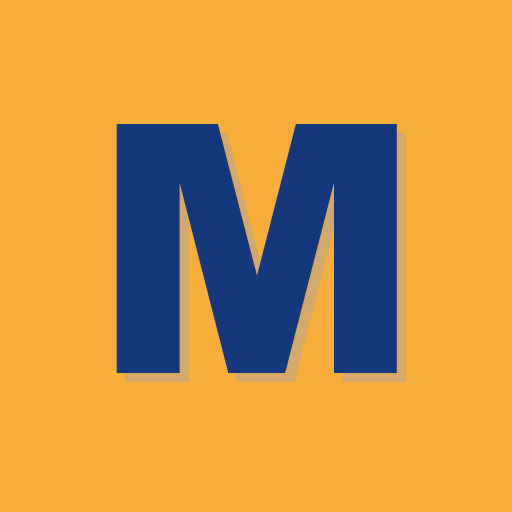
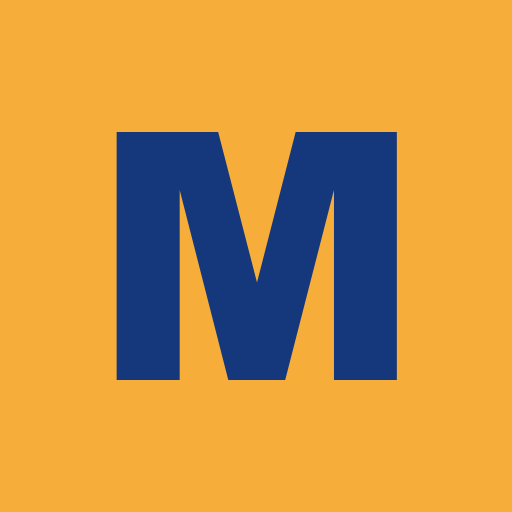
style: remove drop shadow, render flat blue M on yellow, smaller M on admin, and ADMIN text in circle

diff --git a/generate_icons.py b/generate_icons.py
@@ -1,9 +1,5 @@
 """
-Mabrix Enterprises - Favicon & App Icons Generator
-Generates high-res icons for Customer Store and Admin Portal
-- Yellow background (#F6AD3A)
-- Brand Navy Blue "M" (#15387C) using ultra-solid Arial Black
-- Admin badge with "ADMIN" text for Admin app icon
+Mabrix Enterprises - Favicon & App Icons Generator (V3: Perfect Balance, Flat, No Shadow, Smaller M, Admin in Circle)
 """
 
 import os
@@ -12,7 +8,7 @@ from PIL import Image, ImageDraw, ImageFont
 BASE_DIR = os.path.dirname(os.path.abspath(__file__))
 
 def create_customer_icon(size=512):
-    # Base image with brand yellow background
+    # Pure flat brand yellow background (#F6AD3A)
     img = Image.new("RGBA", (size, size), (246, 173, 58, 255))
     draw = ImageDraw.Draw(img)
 
@@ -28,21 +24,17 @@ def create_customer_icon(size=512):
     w = bbox[2] - bbox[0]
     h = bbox[3] - bbox[1]
 
-    # Center position
+    # Exactly centered, pure flat without shadow
     x = (size - w) / 2 - bbox[0]
-    y = (size - h) / 2 - bbox[1] - (size * 0.015)
+    y = (size - h) / 2 - bbox[1]
 
-    # Soft subtle drop shadow
-    shadow_offset = int(size * 0.018)
-    draw.text((x + shadow_offset, y + shadow_offset), "M", fill=(185, 118, 18, 160), font=font)
-
-    # Main text in brand blue (#15387C)
+    # Draw pure flat brand navy blue M (#15387C)
     draw.text((x, y), "M", fill=(21, 56, 124, 255), font=font)
 
     return img
 
 def create_admin_icon(size=512):
-    # Base image with brand yellow background
+    # Pure flat brand yellow background (#F6AD3A)
     img = Image.new("RGBA", (size, size), (246, 173, 58, 255))
     draw = ImageDraw.Draw(img)
 
@@ -50,76 +42,69 @@ def create_admin_icon(size=512):
     if not os.path.exists(font_path):
         font_path = "C:/Windows/Fonts/arialbd.ttf"
     
-    # "M" scaled and shifted up for the "ADMIN" badge
-    font_size = int(size * 0.55)
-    font_m = ImageFont.truetype(font_path, font_size)
+    # "M" is scaled to ~0.46 for balanced proportion
+    font_size_m = int(size * 0.46)
+    font_m = ImageFont.truetype(font_path, font_size_m)
 
     bbox_m = draw.textbbox((0, 0), "M", font=font_m)
     w_m = bbox_m[2] - bbox_m[0]
     h_m = bbox_m[3] - bbox_m[1]
 
     x_m = (size - w_m) / 2 - bbox_m[0]
-    y_m = (size * 0.12) - bbox_m[1]
+    y_m = int(size * 0.07) - bbox_m[1]
 
-    # Subtle soft drop shadow for M
-    shadow_offset = int(size * 0.016)
-    draw.text((x_m + shadow_offset, y_m + shadow_offset), "M", fill=(185, 118, 18, 160), font=font_m)
+    # Pure flat blue M (NO shadow)
     draw.text((x_m, y_m), "M", fill=(21, 56, 124, 255), font=font_m)
 
-    # Admin Badge Pill at the bottom
-    badge_w = int(size * 0.74)
-    badge_h = int(size * 0.19)
-    badge_x0 = (size - badge_w) // 2
-    badge_y0 = int(size * 0.70)
-    badge_x1 = badge_x0 + badge_w
-    badge_y1 = badge_y0 + badge_h
-    corner_radius = badge_h // 2
+    # Admin Badge in a CIRCLE at the bottom
+    circle_radius = int(size * 0.19) # diameter = 195px
+    circle_cx = size // 2
+    circle_cy = int(size * 0.72)
 
-    # Draw navy pill (#15387C) with subtle shadow
-    draw.rounded_rectangle([badge_x0, badge_y0 + int(size * 0.012), badge_x1, badge_y1 + int(size * 0.012)], radius=corner_radius, fill=(185, 118, 18, 160))
-    draw.rounded_rectangle([badge_x0, badge_y0, badge_x1, badge_y1], radius=corner_radius, fill=(21, 56, 124, 255))
+    c_box = [
+        circle_cx - circle_radius,
+        circle_cy - circle_radius,
+        circle_cx + circle_radius,
+        circle_cy + circle_radius
+    ]
 
-    # Border on badge for sharpness
-    draw.rounded_rectangle([badge_x0, badge_y0, badge_x1, badge_y1], radius=corner_radius, outline=(255, 255, 255, 200), width=max(2, int(size * 0.006)))
+    # Draw navy circle (#15387C) with white stroke
+    draw.ellipse(c_box, fill=(21, 56, 124, 255), outline=(255, 255, 255, 255), width=int(size * 0.012))
 
-    # "ADMIN" text inside pill
-    font_admin_size = int(badge_h * 0.58)
+    # "ADMIN" text inside circle
+    font_admin_size = int(size * 0.082) # ~42px
     font_admin = ImageFont.truetype(font_path, font_admin_size)
+
     bbox_a = draw.textbbox((0, 0), "ADMIN", font=font_admin)
     w_a = bbox_a[2] - bbox_a[0]
     h_a = bbox_a[3] - bbox_a[1]
-    x_a = (size - w_a) / 2 - bbox_a[0]
-    y_a = badge_y0 + (badge_h - h_a) / 2 - bbox_a[1] - (badge_h * 0.04)
 
+    x_a = circle_cx - (w_a / 2) - bbox_a[0]
+    y_a = circle_cy - (h_a / 2) - bbox_a[1] - (size * 0.003)
+
+    # Crisp white text inside the navy circle
     draw.text((x_a, y_a), "ADMIN", fill=(255, 255, 255, 255), font=font_admin)
 
     return img
 
 def create_svg_icons():
-    # Vector SVG for Customer Store
+    # Vector SVG for Customer Store (Flat, No Shadow)
     svg_cust = '''<svg xmlns="http://www.w3.org/2000/svg" viewBox="0 0 512 512" width="100%" height="100%">
   <rect width="512" height="512" fill="#F6AD3A"/>
-  <!-- Subtle depth shadow -->
-  <text x="261" y="367" font-family="'Arial Black', 'Segoe UI Black', -apple-system, sans-serif" font-weight="900" font-size="360" text-anchor="middle" fill="#b97612" opacity="0.65">M</text>
-  <!-- Primary Navy M -->
   <text x="256" y="360" font-family="'Arial Black', 'Segoe UI Black', -apple-system, sans-serif" font-weight="900" font-size="360" text-anchor="middle" fill="#15387C">M</text>
 </svg>'''
     with open(os.path.join(BASE_DIR, "favicon.svg"), "w", encoding="utf-8") as f:
         f.write(svg_cust)
 
-    # Vector SVG for Admin Portal
+    # Vector SVG for Admin Portal (Smaller M, Circle Badge, No Shadow)
     svg_admin = '''<svg xmlns="http://www.w3.org/2000/svg" viewBox="0 0 512 512" width="100%" height="100%">
   <rect width="512" height="512" fill="#F6AD3A"/>
-  <!-- Subtle depth shadow for M -->
-  <text x="261" y="318" font-family="'Arial Black', 'Segoe UI Black', -apple-system, sans-serif" font-weight="900" font-size="285" text-anchor="middle" fill="#b97612" opacity="0.65">M</text>
-  <!-- Primary Navy M -->
-  <text x="256" y="312" font-family="'Arial Black', 'Segoe UI Black', -apple-system, sans-serif" font-weight="900" font-size="285" text-anchor="middle" fill="#15387C">M</text>
-  <!-- Admin Pill Badge Shadow -->
-  <rect x="66" y="364" width="380" height="96" rx="48" fill="#b97612" opacity="0.6"/>
-  <!-- Admin Pill Badge -->
-  <rect x="66" y="358" width="380" height="96" rx="48" fill="#15387C" stroke="#FFFFFF" stroke-width="3"/>
+  <!-- Smaller M -->
+  <text x="256" y="260" font-family="'Arial Black', 'Segoe UI Black', -apple-system, sans-serif" font-weight="900" font-size="245" text-anchor="middle" fill="#15387C">M</text>
+  <!-- Admin Circle Badge -->
+  <circle cx="256" cy="370" r="98" fill="#15387C" stroke="#FFFFFF" stroke-width="6"/>
   <!-- Admin Text -->
-  <text x="256" y="425" font-family="'Arial Black', 'Segoe UI Black', -apple-system, sans-serif" font-weight="900" font-size="52" text-anchor="middle" fill="#FFFFFF" letter-spacing="2">ADMIN</text>
+  <text x="256" y="386" font-family="'Arial Black', 'Segoe UI Black', -apple-system, sans-serif" font-weight="900" font-size="42" text-anchor="middle" fill="#FFFFFF" letter-spacing="1.5">ADMIN</text>
 </svg>'''
     with open(os.path.join(BASE_DIR, "admin-favicon.svg"), "w", encoding="utf-8") as f:
         f.write(svg_admin)
@@ -136,7 +121,7 @@ def main():
     cust_512.resize((32, 32), Image.Resampling.LANCZOS).save(os.path.join(icons_dir, "favicon-32x32.png"), "PNG")
     cust_512.resize((16, 16), Image.Resampling.LANCZOS).save(os.path.join(icons_dir, "favicon-16x16.png"), "PNG")
 
-    # Root files for direct / browser default lookups
+    # Root files
     cust_512.resize((180, 180), Image.Resampling.LANCZOS).save(os.path.join(BASE_DIR, "apple-touch-icon.png"), "PNG")
     cust_512.resize((32, 32), Image.Resampling.LANCZOS).save(os.path.join(BASE_DIR, "favicon.ico"), "ICO")
     cust_512.resize((192, 192), Image.Resampling.LANCZOS).save(os.path.join(BASE_DIR, "icon-192.png"), "PNG")
@@ -159,7 +144,7 @@ def main():
     # 3. Vector SVGs
     create_svg_icons()
 
-    print("All icons & SVGs successfully generated!")
+    print("Icons successfully re-generated: Flat, no shadow, smaller M in Admin, ADMIN in balanced circle!")
 
 if __name__ == "__main__":
     main()
